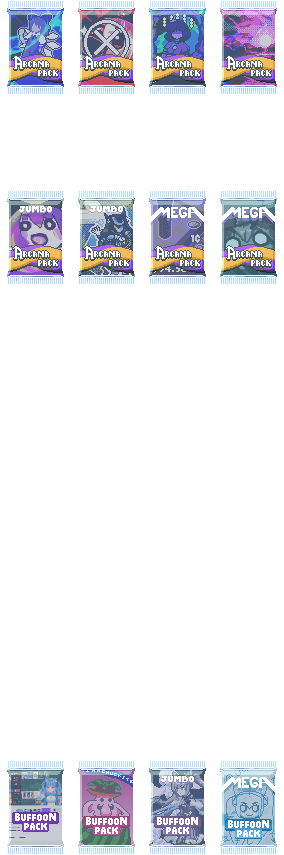
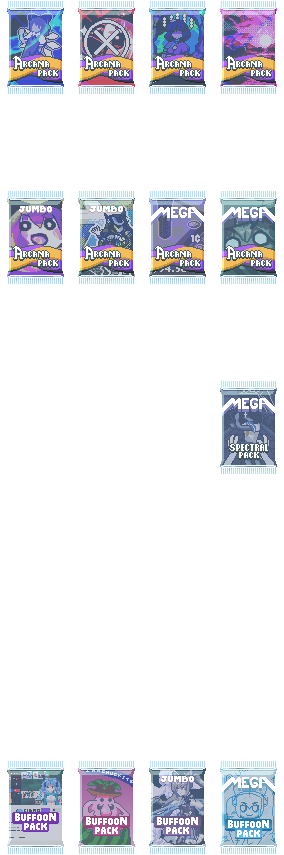
v0.0.908
Added reskin for Ectoplasm, Mega Spectral Pack

Added two Upgraded Common Jokers.

Minor adjustments.

Changed region(s): [[0.7606, 0.4257, 0.9859, 0.5778], [0.0282, 0.8819, 0.2254, 0.9427]]

diff --git a/README.md b/README.md
@@ -24,9 +24,9 @@ DaemonTsun's art contributions are public domain - Some memes or pictures are no
   - All Tarot Cards
   - 24 Vouchers
   - 22 Tags
-  - 20 Booster Packs
+  - 21 Booster Packs
   - 15 Decks
-  - 13 Spectral Cards
+  - 14 Spectral Cards
   - 5 Enhancements
   - The title screen
 
@@ -39,13 +39,13 @@ DaemonTsun's art contributions are public domain - Some memes or pictures are no
   - 24 Vouchers
   - 22 Tags
   - 15 Decks
-  - 13 Spectral Cards
+  - 14 Spectral Cards
   - 5 Enhancements
 
 - Adds:	
   - Various fun flavour text to numerous items
   - Some custom playing card skins
-  - 38 custom Jokers
+  - 44 custom Jokers
   - 2 custom Spectral Cards
   - 1 custom Challenge
   - Sometimes, quitting is an option. :)
